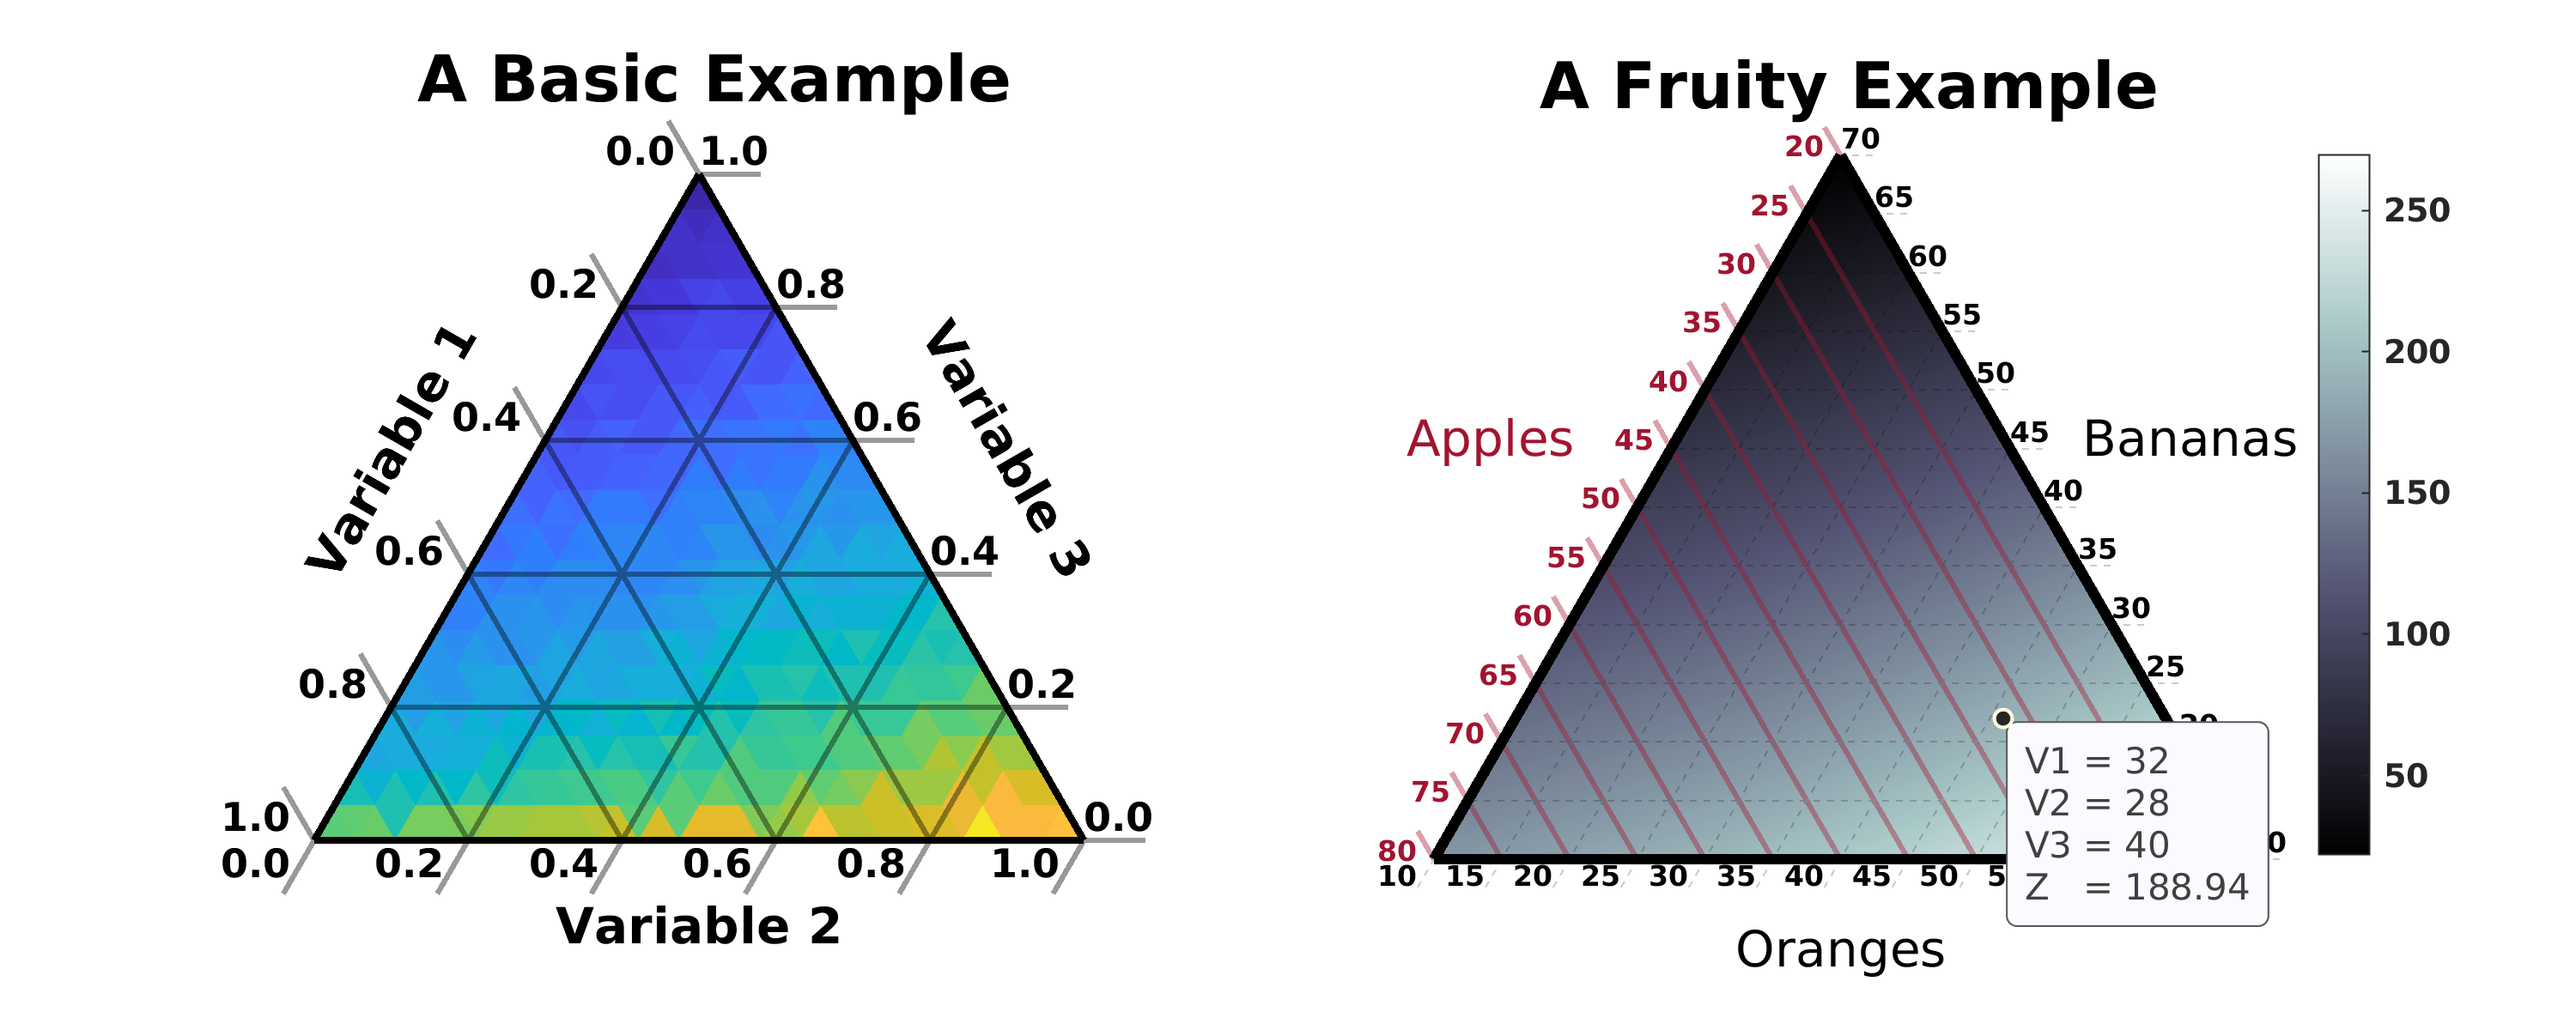
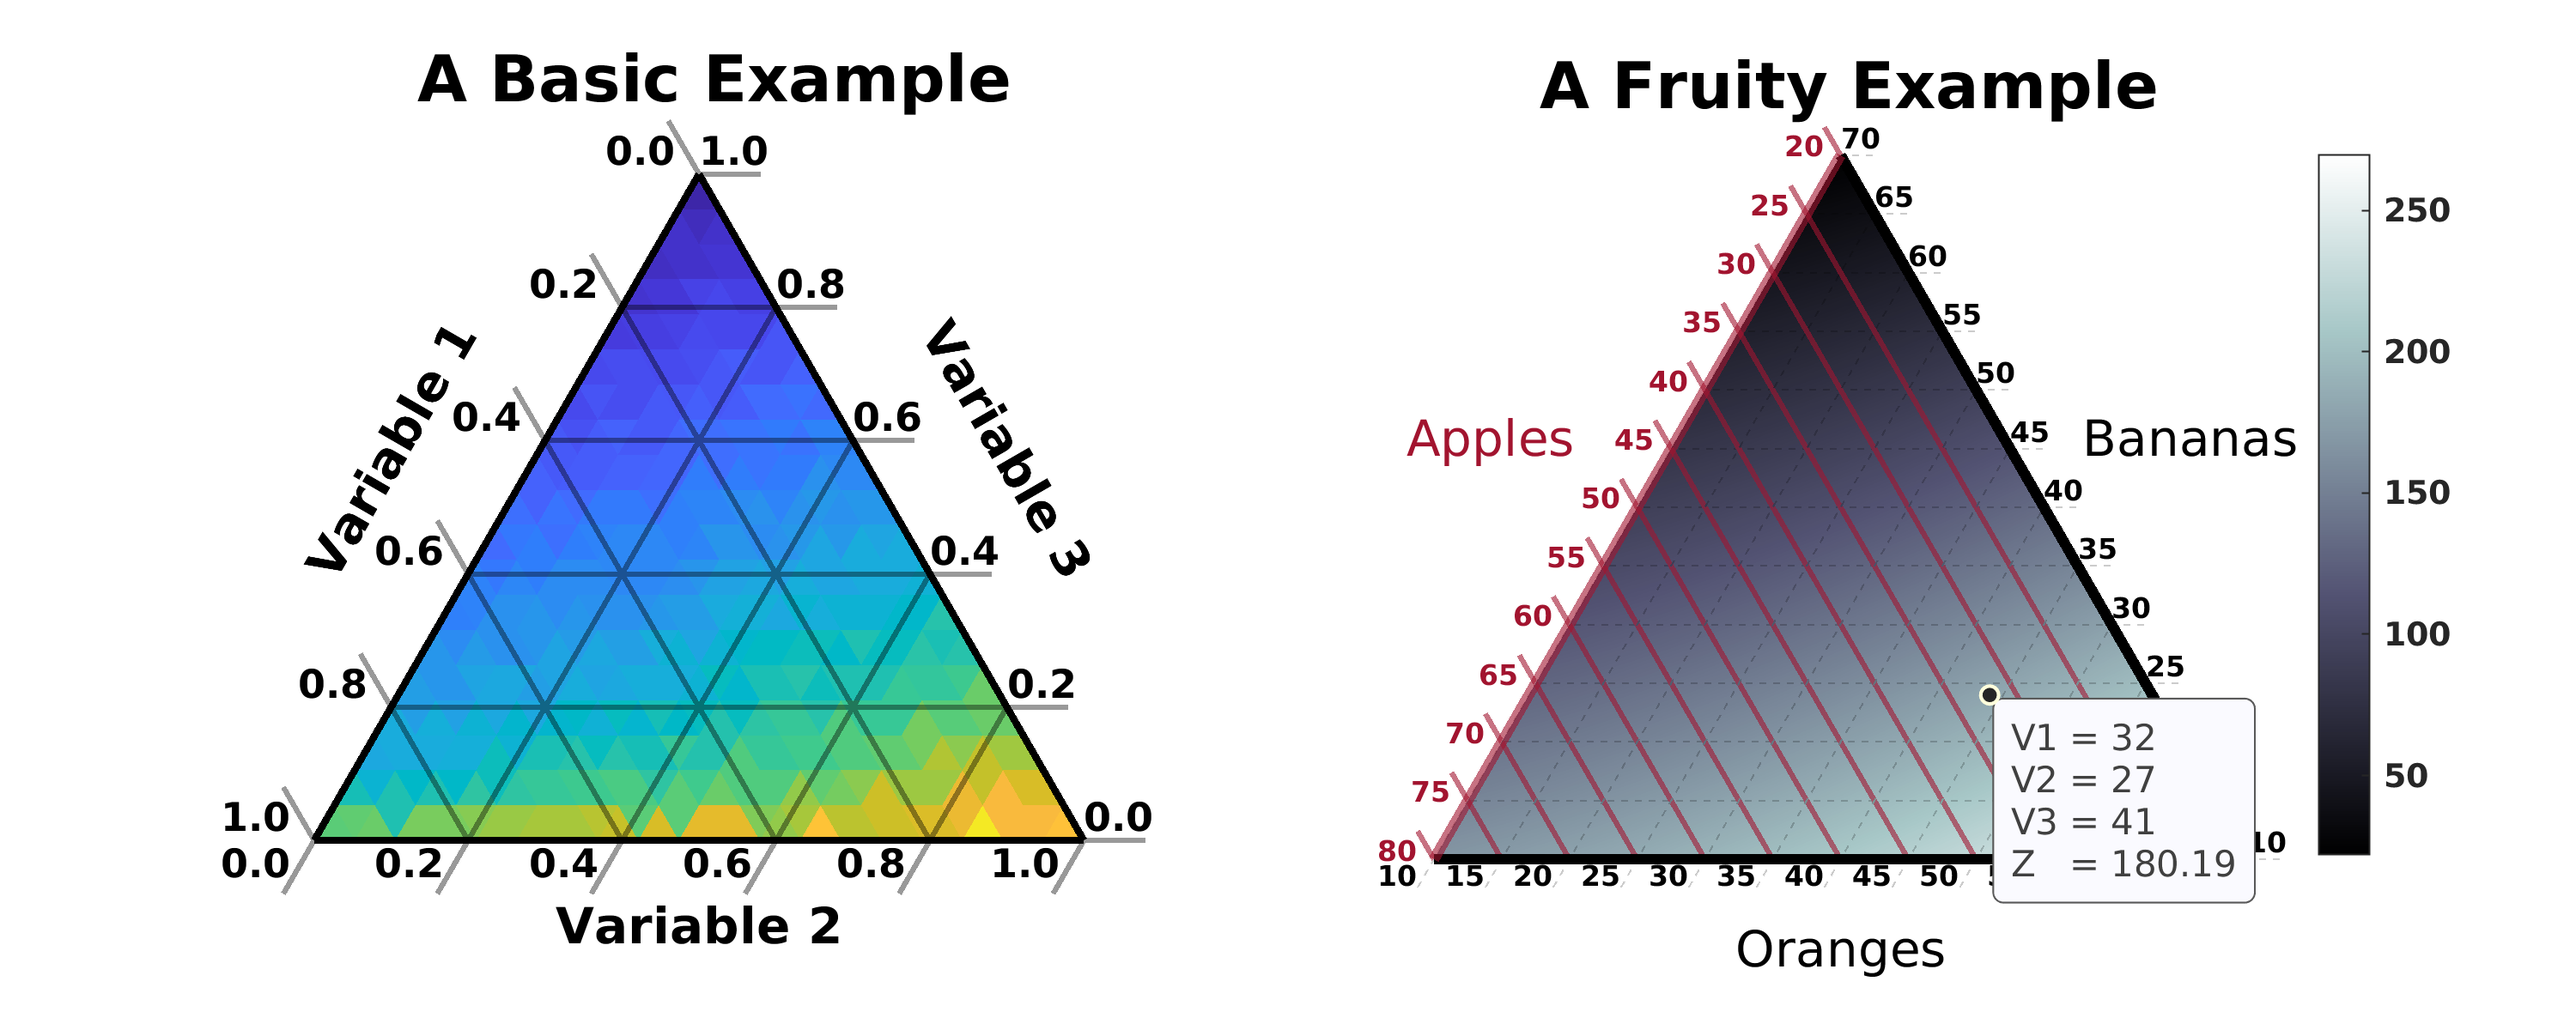
Fixed bug preventing outline from updating color with rest of axis. Updated README and advanced_example

diff --git a/figure_tweaks/adjust_axis_color.m b/figure_tweaks/adjust_axis_color.m
@@ -25,7 +25,7 @@ function handle = adjust_axis_color(handle,name,color)
                     handle.grid.lines(i,iaxis).Color = color;
                 end
             case 'outline'
-                handle.grid.lines(iaxis).Color = color;
+                handle.outline.lines(iaxis).Color = color;
             otherwise
                 error(['Bad color link field name: ',handle.link_color{j}] )
         end

diff --git a/advanced_example.m b/advanced_example.m
@@ -102,7 +102,7 @@ add_ternary_paths
     
     % Change color by changing one element ("link_color" determines
     % linking)
-    handle = adjust_axis_color(handle,'left',[0.6353, 0.0784, 0.1843, 0.4]);
+    handle = adjust_axis_color(handle,'left',[0.6353, 0.0784, 0.1843, 0.6]);
     
     % Change LineStyle of Black lines by changing one
     handle.grid.lines(1,1).LineWidth = 1.5;

diff --git a/basic_example.m b/basic_example.m
@@ -9,7 +9,7 @@ clear all; close all; clc
 % (2) Create Basic Ternary Axes (Sides Ranging from 0-1)
     handle  = ternary_axes; 
 
-% (3) Get a set of A,B,C Test points, assuming 20 along each side
+% (3) Get a set of A,B,C Test points, assuming 20 points along each side
     [A,B,C] = ternary_arrays( 20 );
     
 % (5) Create example data

diff --git a/README.md b/README.md
@@ -18,7 +18,6 @@ MATLAB package for creating ternary plots. It is a major overhaul of the [Ternar
   2. *basic_example.m* shows a minimalist example. *advanced_example.m* includes numerous customized axes.
   3. To make changes or to investigate the code, it is recommended to start by exploring the *ternary_axes.m* file, which does most of the heavy lifting. *ternary_surf.m* then shows how the data is used to generate a surface plot. The *problem_setup/* folder is also useful as it shows how the axes limits are obtained and A,B,C coordinates generated.
 
-___
 ## File Tree
 File tree for Ternary Plots, organized roughly by order of use:
 ```bash
@@ -56,11 +55,9 @@ Ternary_Plots/
     ├── restack_dataplots.m        - Reorders plots in handle.dataplots to ensure proper order
     ├── ternary_datatip.m          - Custom datatip to show A/B/C coordinates
     └── ternary_shift_XY.m         - Shift plot elements by a custom dX/dY
-
 ```
-___
 ## Ternary Plot Handle
-The ternary handle contains all the plot objects and data used to generate the ternary figure. It is organized in the hierarchy below. See *ternary_axes.m* and *ternary_surf.m* for main usage.
+The ternary handle contains all the plot objects and data used to generate the ternary figure. It is organized in the hierarchy below. See *ternary_axes.m* and *ternary_surf.m* for typical usage. Currently, only modifications to fields containing primitive plot handles (lines, patch, etc) will automatically update the figure, but future versions will enable automatic updates when any field is altered.
 ```bash
 handle
 │
@@ -100,10 +97,9 @@ handle
     └── colorbar              - If using scatter3 or surf, colorbar is created with handle in dataplots
 ```
 
-
 ## Features In Development
   1. Wrapper functions for patch() and text() defined using ternary coordinates
   2. Custom Datatip that plots lines of constant A/B/C at the specified point. 
   3. Functions to automatically plot specific points of interest (e.g. the maximum on the ternary)
-  4. Improved README file & instructions. 
-  5. Uniform Units on plot objects (currently there may various units used in different places)
+  4. Automatic updates of ternary figure when fields are changed.
+  5. Uniform Units on plot objects (currently there may be some places where the X/Y plotting coordinates (0,1) do not clearly stand out compared to user-supplied coordinates). May result in unexpected behavior when altering scripts.
